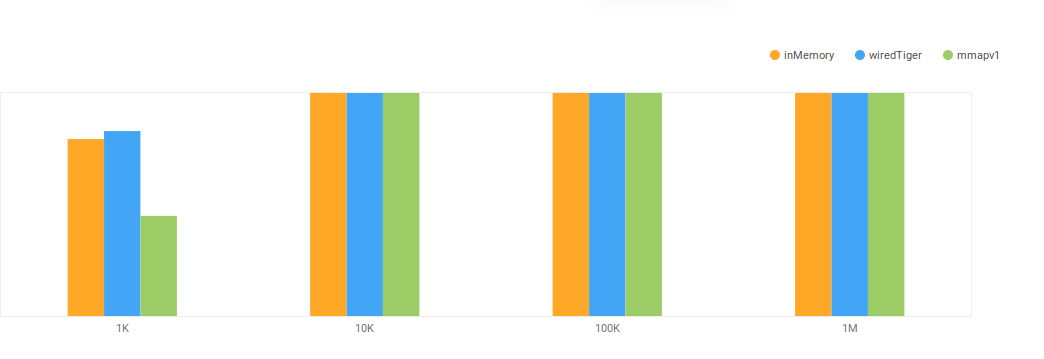
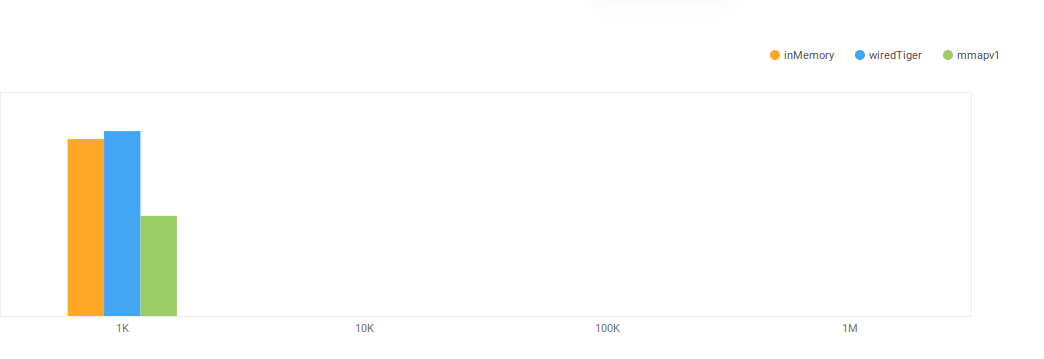
make graph more informative, edit README.md

Changed region(s): [[0.7356, 0.2451, 0.8889, 0.8886], [0.2759, 0.2451, 0.4291, 0.8886], [0.5211, 0.2451, 0.6437, 0.8886]]

diff --git a/README.md b/README.md
@@ -49,16 +49,44 @@ MongoDB Connection Tools: Pymongo 3.2
 - `insert_one results`
 ![insert_one](https://raw.github.com/athlonUA/MongoDBEnginesTests/master/img/insertProcess/insert_one.png)
 
-- `insert_one results - 1K (scaling)`
+- `insert_one results - 1K (y-scaling)`
+
+| Engine      | time           |
+| ----------- | -------------- |
+| inMemory    | 0:00:00.256019 |
+| wiredTiger  | 0:00:00.262877 |
+| mmapv1      | 0:00:00.258589 |
+
 ![insert_one](https://raw.github.com/athlonUA/MongoDBEnginesTests/master/img/insertProcess/insert_one_1K.png)
 
-- `insert_one results - 10K (scaling)`
+- `insert_one results - 10K (y-scaling)`
+
+| Engine      | time           |
+| ----------- | -------------- |
+| inMemory    | 0:00:02.555137 |
+| wiredTiger  | 0:00:02.622586 |
+| mmapv1      | 0:00:02.719752 |
+
 ![insert_one](https://raw.github.com/athlonUA/MongoDBEnginesTests/master/img/insertProcess/insert_one_10K.png)
 
-- `insert_one results - 100K (scaling)`
+- `insert_one results - 100K (y-scaling)`
+
+| Engine      | time           |
+| ----------- | -------------- |
+| inMemory    | 0:00:25.371257 |
+| wiredTiger  | 0:00:26.450679 |
+| mmapv1      | 0:00:27.077982 |
+
 ![insert_one](https://raw.github.com/athlonUA/MongoDBEnginesTests/master/img/insertProcess/insert_one_100K.png)
 
-- `insert_one results - 1M (scaling)`
+- `insert_one results - 1M (y-scaling)`
+
+| Engine      | time           |
+| ----------- | -------------- |
+| inMemory    | 0:04:25.501858 |
+| wiredTiger  | 0:04:25.172383 |
+| mmapv1      | 0:04:21.461826 |
+
 ![insert_one](https://raw.github.com/athlonUA/MongoDBEnginesTests/master/img/insertProcess/insert_one_1M.png)
 
 ***
@@ -68,14 +96,42 @@ MongoDB Connection Tools: Pymongo 3.2
 - `insert_many results`
 ![insert_one](https://raw.github.com/athlonUA/MongoDBEnginesTests/master/img/insertProcess/insert_many.png)
 
-- `insert_many results - 1K (scaling)`
+- `insert_many results - 1K (y-scaling)`
+
+| Engine      | time           |
+| ----------- | -------------- |
+| inMemory    | 0:00:00.025174 |
+| wiredTiger  | 0:00:00.025317 |
+| mmapv1      | 0:00:00.023795 |
+
 ![insert_one](https://raw.github.com/athlonUA/MongoDBEnginesTests/master/img/insertProcess/insert_many_1K.png)
 
-- `insert_many results - 10K (scaling)`
+- `insert_many results - 10K (y-scaling)`
+
+| Engine      | time           |
+| ----------- | -------------- |
+| inMemory    | 0:00:00.223759 |
+| wiredTiger  | 0:00:00.246260 |
+| mmapv1      | 0:00:00.219049 |
+
 ![insert_one](https://raw.github.com/athlonUA/MongoDBEnginesTests/master/img/insertProcess/insert_many_10K.png)
 
-- `insert_many results - 100K (scaling)`
+- `insert_many results - 100K (y-scaling)`
+
+| Engine      | time           |
+| ----------- | -------------- |
+| inMemory    | 0:00:02.304617 |
+| wiredTiger  | 0:00:02.494182 |
+| mmapv1      | 0:00:02.322669 |
+
 ![insert_one](https://raw.github.com/athlonUA/MongoDBEnginesTests/master/img/insertProcess/insert_many_100K.png)
 
-- `insert_many results - 1M (scaling)`
+- `insert_many results - 1M (y-scaling)`
+
+| Engine      | time           |
+| ----------- | -------------- |
+| inMemory    | 0:00:25.498137 |
+| wiredTiger  | 0:00:27.500170 |
+| mmapv1      | 0:00:24.511715 |
+
 ![insert_one](https://raw.github.com/athlonUA/MongoDBEnginesTests/master/img/insertProcess/insert_many_1M.png)
